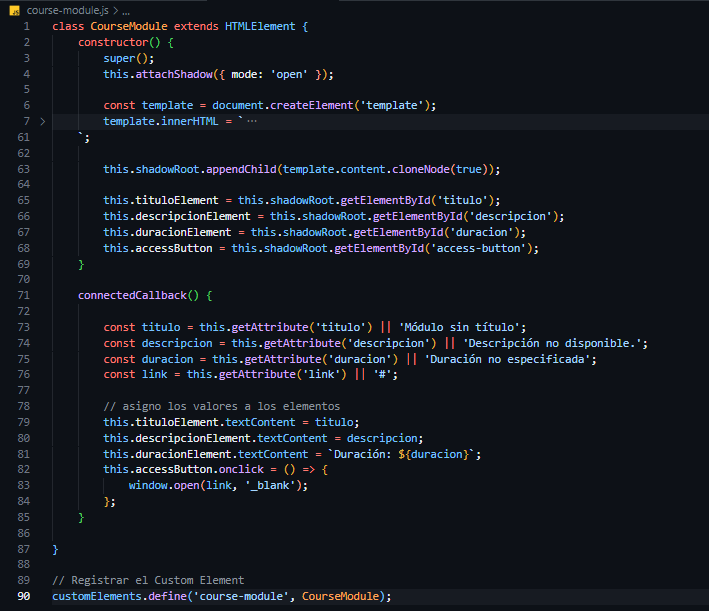
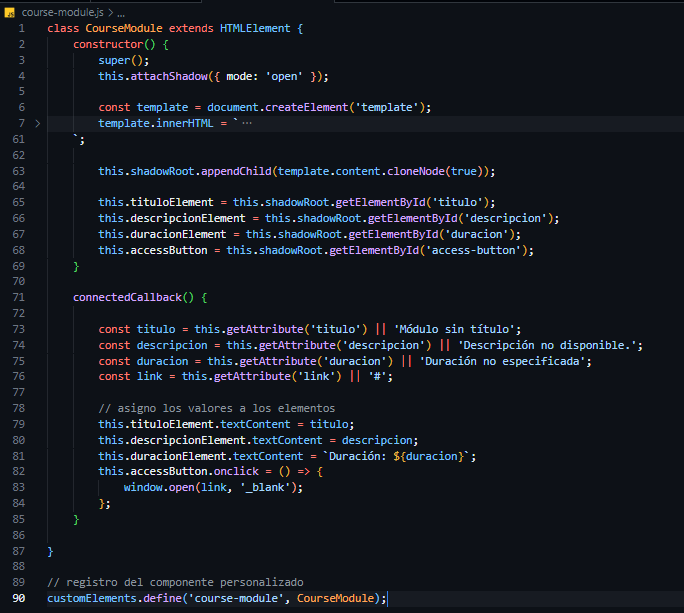
Nuevo cambio al readme7

diff --git a/course-module.js b/course-module.js
@@ -86,5 +86,5 @@ class CourseModule extends HTMLElement {
 
 }
 
-// Registrar el Custom Element
+// registro del componente personalizado
 customElements.define('course-module', CourseModule);
